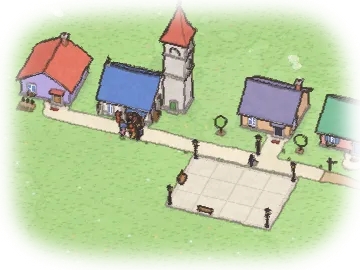
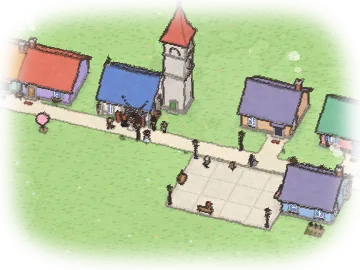
Guide: the wedding's picture is the couple coming out to the guard of honour under the arch; neighbours enough for a party; how-to text for the new wedding

diff --git a/src/guide/entries.ts b/src/guide/entries.ts
@@ -16,6 +16,9 @@ import type { Kind } from '@/core/kinds';
 import type { ActorType, PropType, Role } from '@/core/vocab';
 import { scenario, type Scenario, type TerrainBuilder, type TownBuilder } from '@/scenario';
 
+/** Seconds of life before the wedding's picture is taken: the couple on the doorstep in a shower of petals, the guard of honour either side, the doves going up (timed in a test run of its recipe). */
+const WEDDING_GUIDE_AT = 96;
+
 export type GuideGroup = 'auto' | 'houses' | 'towers' | 'stone' | 'bridges' | 'waterfront' | 'green' | 'town' | 'play' | 'events';
 
 export const GROUPS: readonly { id: GuideGroup; title: string }[] = [
@@ -1315,10 +1318,14 @@ export const ENTRIES: readonly GuideEntry[] = [
       b.plaza(21, 19, 24, 21);
       b.house(14, 16, { floors: 1, w: 2, d: 2, color: 1 }).house(22, 15, { floors: 1, w: 2, d: 2, color: 6 }).house(25, 15, { floors: 1, w: 2, d: 2, color: 2 });
       b.path(23, 17, 23, 17).path(26, 17, 26, 17);
+      // Neighbours enough for a wedding party.
+      b.house(12, 16, { floors: 1, w: 2, d: 2, color: 3 }).house(25, 19, { floors: 1, w: 2, d: 2, color: 4 }).house(28, 15, { floors: 1, w: 2, d: 2, color: 7 }).house(28, 19, { floors: 1, w: 2, d: 2, color: 0 });
+      b.path(12, 18, 14, 18).path(26, 18, 29, 18).path(29, 17, 29, 17);
     },
     view: { yaw: 20, pitch: 40 },
     pad: 0.2,
-    life: { settle: 70, residents: true },
+    // In the middle of a wedding: the couple come out (WEDDING_GUIDE_AT).
+    life: { settle: WEDDING_GUIDE_AT, residents: true },
     frame: [16, 16, 24, 21, 2],
   },
 ];
